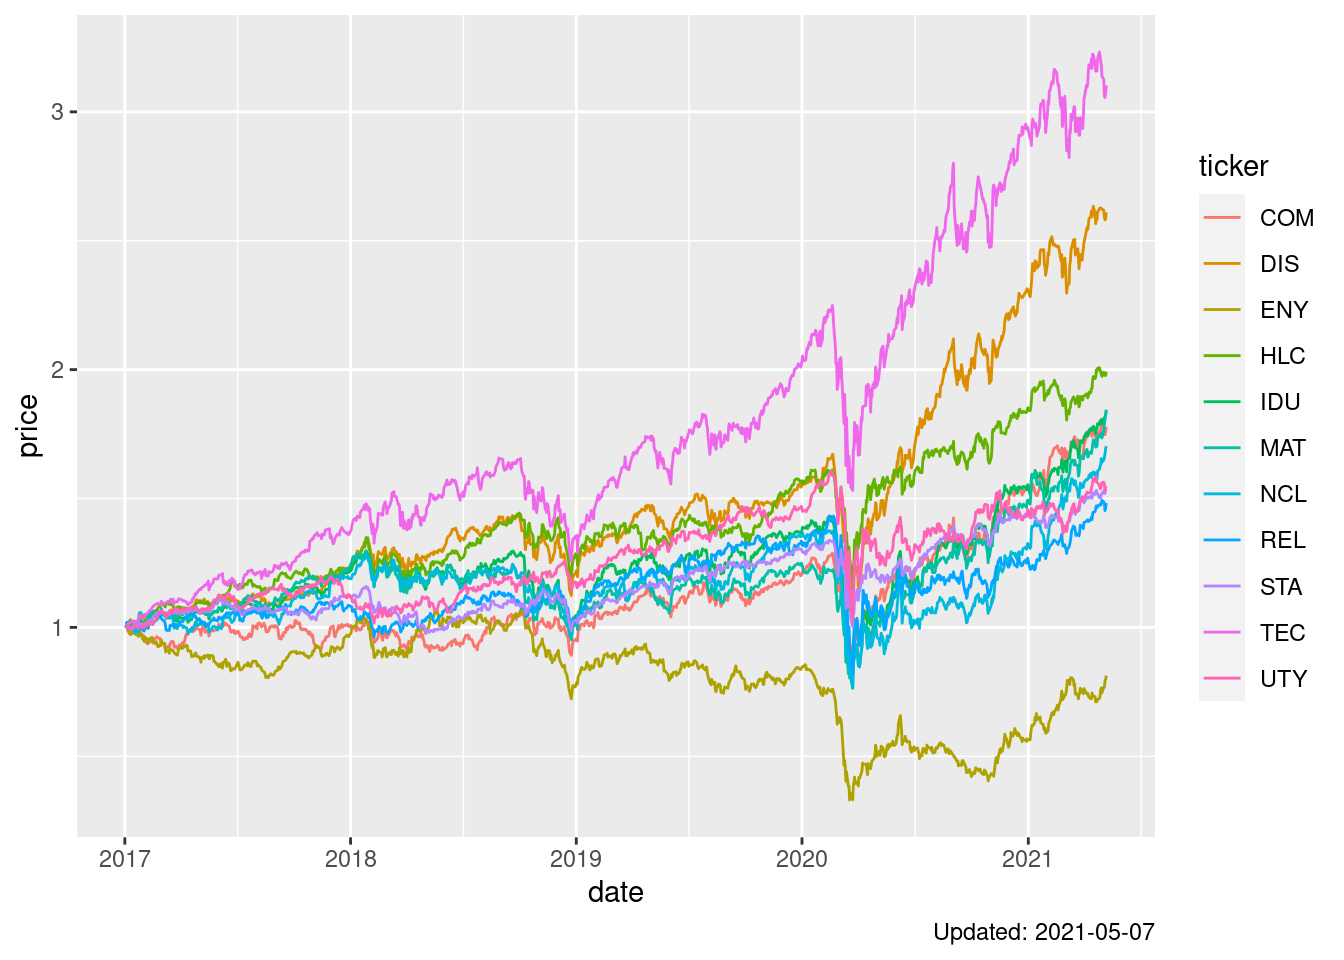
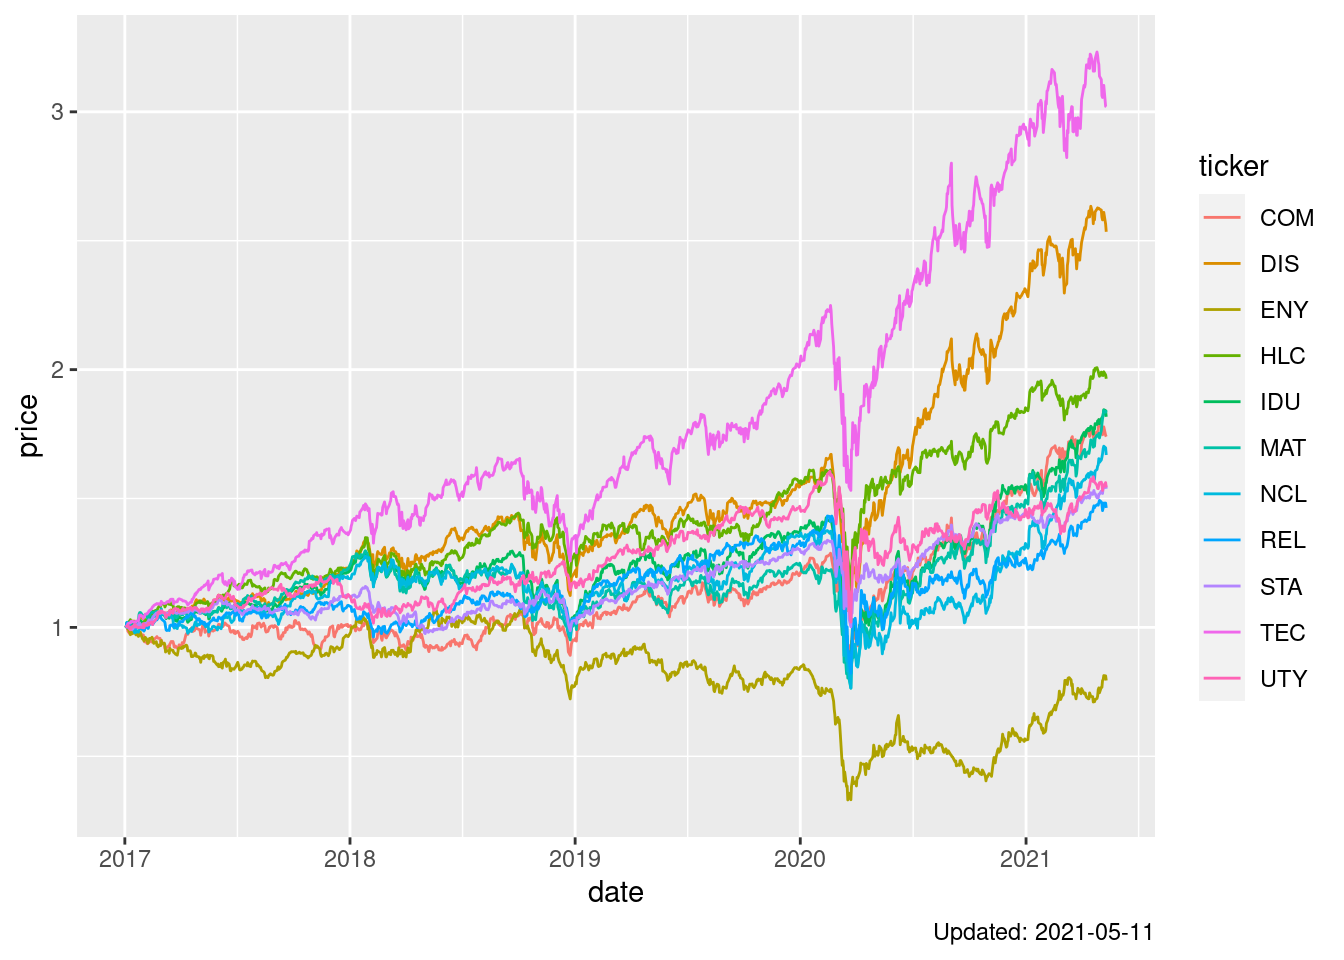
2021-05-12

diff --git a/_site/sectors.html b/_site/sectors.html
@@ -342,112 +342,112 @@ $(document).ready(function () {
 <tr class="odd">
 <td align="left">Energy</td>
 <td align="left">ENY</td>
-<td align="right">9.1</td>
-<td align="right">21.9</td>
-<td align="right">92.6</td>
-<td align="right">57.6</td>
-<td align="right">-6.1</td>
-<td align="right">-18.5</td>
+<td align="right">9.8</td>
+<td align="right">20.1</td>
+<td align="right">61.6</td>
+<td align="right">49.6</td>
+<td align="right">-8.7</td>
+<td align="right">-23.1</td>
 </tr>
 <tr class="even">
 <td align="left">Materials</td>
 <td align="left">MAT</td>
-<td align="right">10.8</td>
-<td align="right">19.5</td>
-<td align="right">34.2</td>
-<td align="right">79.9</td>
+<td align="right">9.6</td>
+<td align="right">20.4</td>
+<td align="right">31.7</td>
+<td align="right">77.9</td>
 <td align="right">64.9</td>
-<td align="right">55.8</td>
+<td align="right">53.3</td>
 </tr>
 <tr class="odd">
 <td align="left">Industrials</td>
 <td align="left">IDU</td>
-<td align="right">5.9</td>
-<td align="right">14.8</td>
-<td align="right">31.3</td>
-<td align="right">75.3</td>
-<td align="right">47.4</td>
-<td align="right">57.3</td>
+<td align="right">2.5</td>
+<td align="right">13.1</td>
+<td align="right">23.9</td>
+<td align="right">70.4</td>
+<td align="right">45.2</td>
+<td align="right">51.0</td>
 </tr>
 <tr class="even">
 <td align="left">Utilities</td>
 <td align="left">UTY</td>
-<td align="right">1.7</td>
-<td align="right">5.3</td>
-<td align="right">6.1</td>
-<td align="right">23.9</td>
-<td align="right">19.6</td>
-<td align="right">39.1</td>
+<td align="right">1.3</td>
+<td align="right">4.7</td>
+<td align="right">1.3</td>
+<td align="right">21.3</td>
+<td align="right">18.7</td>
+<td align="right">40.8</td>
 </tr>
 <tr class="odd">
 <td align="left">Health Care</td>
 <td align="left">HLC</td>
-<td align="right">5.3</td>
 <td align="right">2.8</td>
-<td align="right">13.0</td>
-<td align="right">29.2</td>
-<td align="right">47.8</td>
-<td align="right">63.8</td>
+<td align="right">1.1</td>
+<td align="right">10.2</td>
+<td align="right">24.2</td>
+<td align="right">45.9</td>
+<td align="right">57.4</td>
 </tr>
 <tr class="even">
 <td align="left">Financials</td>
 <td align="left">NCL</td>
-<td align="right">8.0</td>
-<td align="right">20.5</td>
-<td align="right">53.0</td>
-<td align="right">78.4</td>
-<td align="right">41.9</td>
-<td align="right">44.1</td>
+<td align="right">4.5</td>
+<td align="right">17.9</td>
+<td align="right">38.5</td>
+<td align="right">74.3</td>
+<td align="right">38.9</td>
+<td align="right">37.4</td>
 </tr>
 <tr class="odd">
 <td align="left">Consumer Discretionary</td>
 <td align="left">DIS</td>
-<td align="right">2.6</td>
-<td align="right">3.8</td>
-<td align="right">24.0</td>
-<td align="right">78.8</td>
-<td align="right">80.9</td>
-<td align="right">103.7</td>
+<td align="right">-2.3</td>
+<td align="right">2.1</td>
+<td align="right">21.9</td>
+<td align="right">69.8</td>
+<td align="right">76.7</td>
+<td align="right">96.9</td>
 </tr>
 <tr class="even">
 <td align="left">Consumer Staples</td>
 <td align="left">STA</td>
-<td align="right">2.6</td>
-<td align="right">7.4</td>
-<td align="right">12.1</td>
-<td align="right">31.2</td>
-<td align="right">33.4</td>
-<td align="right">56.5</td>
+<td align="right">1.9</td>
+<td align="right">7.7</td>
+<td align="right">9.0</td>
+<td align="right">28.0</td>
+<td align="right">31.8</td>
+<td align="right">55.7</td>
 </tr>
 <tr class="odd">
 <td align="left">Information Technology</td>
 <td align="left">TEC</td>
-<td align="right">-0.2</td>
-<td align="right">-0.5</td>
-<td align="right">14.2</td>
-<td align="right">51.6</td>
-<td align="right">83.1</td>
-<td align="right">110.3</td>
+<td align="right">-4.8</td>
+<td align="right">-4.0</td>
+<td align="right">11.9</td>
+<td align="right">44.4</td>
+<td align="right">79.3</td>
+<td align="right">99.3</td>
 </tr>
 <tr class="even">
 <td align="left">Communication Services</td>
 <td align="left">COM</td>
-<td align="right">1.2</td>
-<td align="right">6.7</td>
-<td align="right">24.5</td>
-<td align="right">57.5</td>
-<td align="right">58.8</td>
-<td align="right">92.2</td>
+<td align="right">-0.8</td>
+<td align="right">2.9</td>
+<td align="right">21.9</td>
+<td align="right">51.6</td>
+<td align="right">55.9</td>
+<td align="right">87.0</td>
 </tr>
 <tr class="odd">
 <td align="left">Real Estate</td>
 <td align="left">REL</td>
-<td align="right">4.6</td>
-<td align="right">12.0</td>
-<td align="right">26.4</td>
-<td align="right">40.0</td>
-<td align="right">23.6</td>
-<td align="right">42.1</td>
+<td align="right">3.1</td>
+<td align="right">9.4</td>
+<td align="right">18.1</td>
+<td align="right">36.8</td>
+<td align="right">20.5</td>
+<td align="right">39.4</td>
 </tr>
 </tbody>
 </table>

diff --git a/_site/styles.html b/_site/styles.html
@@ -332,42 +332,42 @@ $(document).ready(function () {
 <tr class="odd">
 <td align="left">SV</td>
 <td align="left">Small Value</td>
-<td align="right">4.6</td>
-<td align="right">10.5</td>
-<td align="right">55.9</td>
-<td align="right">95.1</td>
-<td align="right">41.1</td>
-<td align="right">39.9</td>
+<td align="right">1.5</td>
+<td align="right">8.1</td>
+<td align="right">40.5</td>
+<td align="right">85.7</td>
+<td align="right">38.4</td>
+<td align="right">35.1</td>
 </tr>
 <tr class="even">
 <td align="left">SG</td>
 <td align="left">Small Growth</td>
-<td align="right">-0.7</td>
-<td align="right">-10.8</td>
-<td align="right">23.1</td>
-<td align="right">63.9</td>
-<td align="right">50.3</td>
-<td align="right">55.6</td>
+<td align="right">-4.2</td>
+<td align="right">-13.4</td>
+<td align="right">16.3</td>
+<td align="right">52.8</td>
+<td align="right">46.6</td>
+<td align="right">47.5</td>
 </tr>
 <tr class="odd">
 <td align="left">LV</td>
 <td align="left">Large Value</td>
-<td align="right">5.1</td>
-<td align="right">13.4</td>
-<td align="right">32.9</td>
-<td align="right">54.6</td>
-<td align="right">36.2</td>
-<td align="right">45.5</td>
+<td align="right">3.1</td>
+<td align="right">11.5</td>
+<td align="right">24.7</td>
+<td align="right">50.2</td>
+<td align="right">34.3</td>
+<td align="right">40.7</td>
 </tr>
 <tr class="even">
 <td align="left">LG</td>
 <td align="left">Large Growth</td>
-<td align="right">2.0</td>
-<td align="right">1.8</td>
-<td align="right">12.6</td>
-<td align="right">48.6</td>
-<td align="right">69.2</td>
-<td align="right">90.6</td>
+<td align="right">-2.3</td>
+<td align="right">-0.7</td>
+<td align="right">11.3</td>
+<td align="right">42.0</td>
+<td align="right">65.5</td>
+<td align="right">82.4</td>
 </tr>
 </tbody>
 </table>

diff --git a/_site/inflation.html b/_site/inflation.html
@@ -331,34 +331,34 @@ $(document).ready(function () {
 </thead>
 <tbody>
 <tr class="odd">
-<td align="left">2020-10-01</td>
-<td align="right">260.462</td>
-<td align="right">1.194699</td>
-</tr>
-<tr class="even">
 <td align="left">2020-11-01</td>
 <td align="right">260.927</td>
 <td align="right">1.138808</td>
 </tr>
-<tr class="odd">
+<tr class="even">
 <td align="left">2020-12-01</td>
 <td align="right">261.560</td>
 <td align="right">1.300140</td>
 </tr>
-<tr class="even">
+<tr class="odd">
 <td align="left">2021-01-01</td>
 <td align="right">262.231</td>
 <td align="right">1.369995</td>
 </tr>
-<tr class="odd">
+<tr class="even">
 <td align="left">2021-02-01</td>
 <td align="right">263.161</td>
 <td align="right">1.675656</td>
 </tr>
-<tr class="even">
+<tr class="odd">
 <td align="left">2021-03-01</td>
 <td align="right">264.793</td>
 <td align="right">2.637322</td>
+</tr>
+<tr class="even">
+<td align="left">2021-04-01</td>
+<td align="right">266.832</td>
+<td align="right">4.153135</td>
 </tr>
 </tbody>
 </table>
